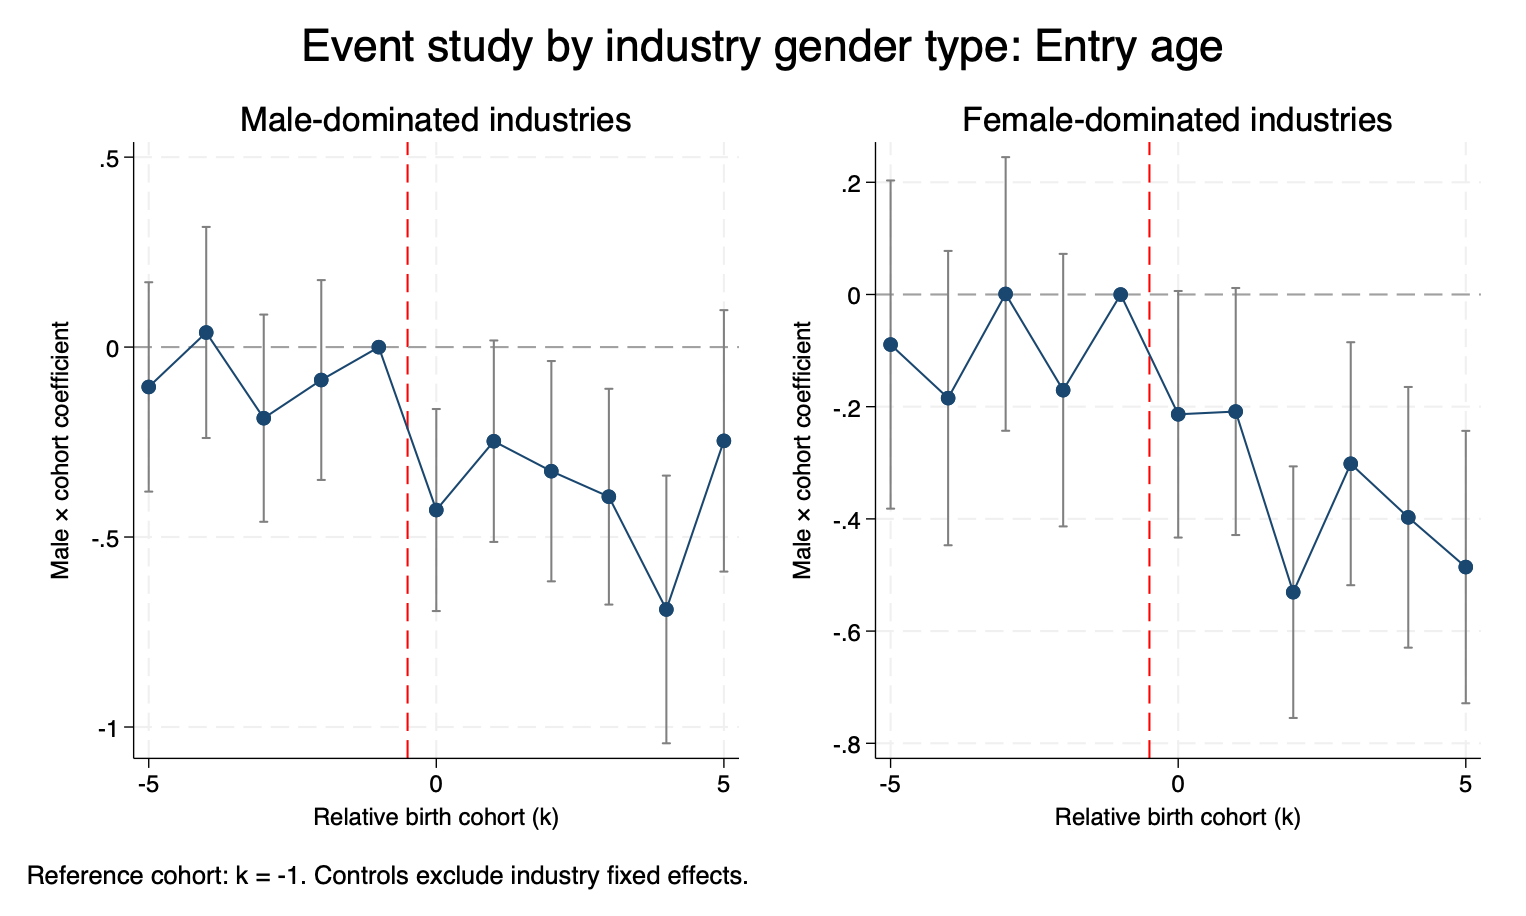
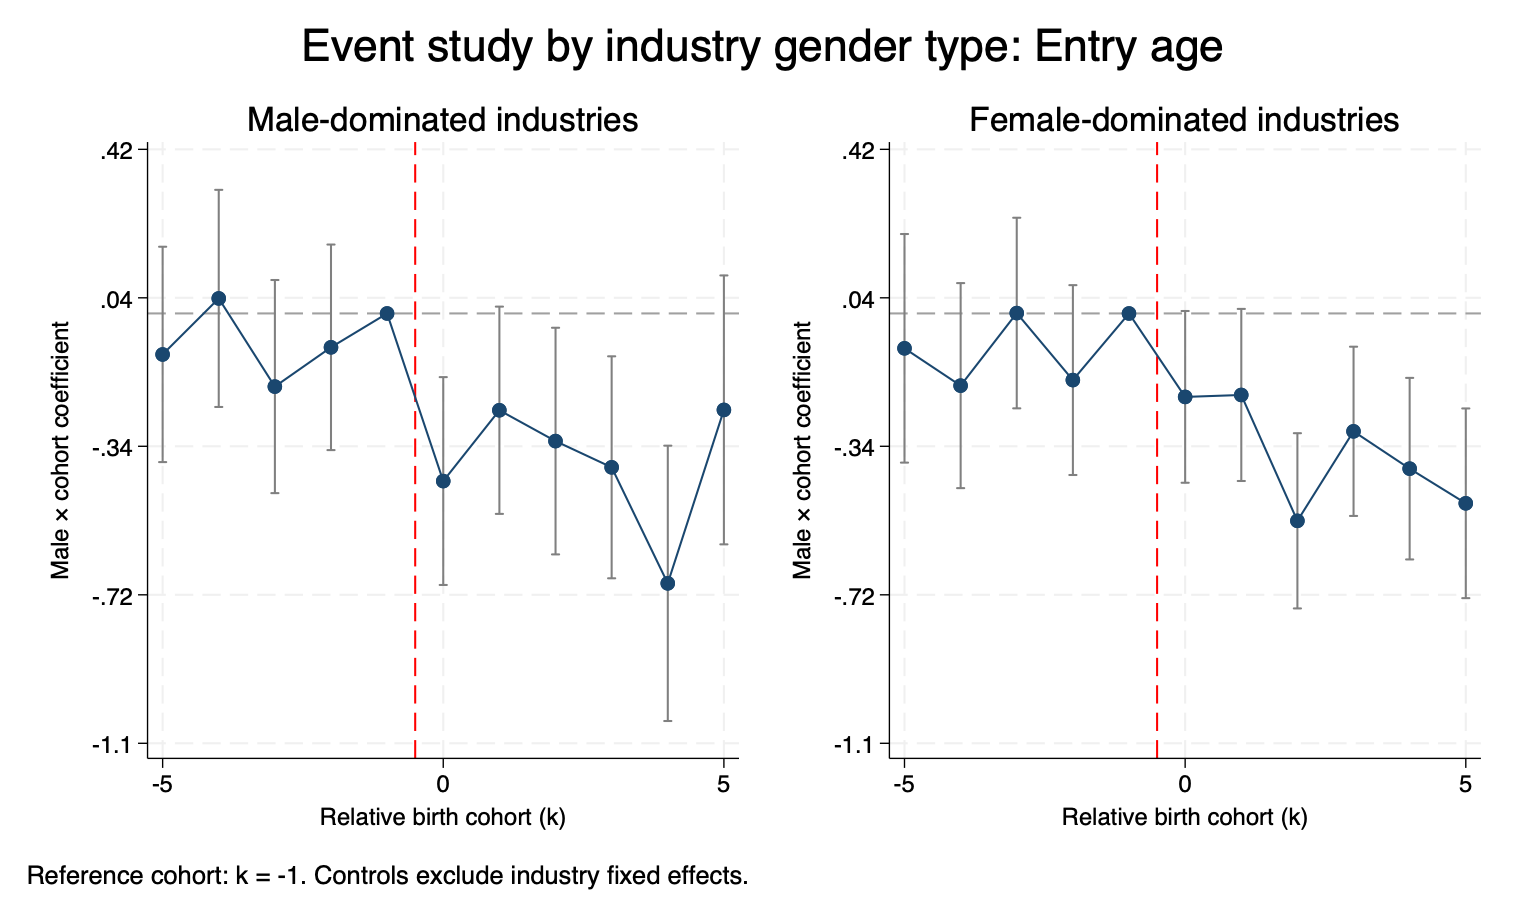
Align y-axis scales in gender-segregated event-study graphs and regenerated comparable DiD table

diff --git a/output/main_did_by_industry_gender_type.tex b/output/main_did_by_industry_gender_type.tex
@@ -1,9 +1,9 @@
             &\multicolumn{4}{c}{Entry age}                                                          &\multicolumn{4}{c}{Large firm}                                                         &\multicolumn{4}{c}{Permanent}                                                          &\multicolumn{4}{c}{Log hourly wage}                                                    &\multicolumn{4}{c}{Log monthly wage}                                                   \\
             &\multicolumn{1}{c}{Full}&\multicolumn{1}{c}{Male-dom.}&\multicolumn{1}{c}{Female-dom.}&\multicolumn{1}{c}{Mixed}&\multicolumn{1}{c}{Full}&\multicolumn{1}{c}{Male-dom.}&\multicolumn{1}{c}{Female-dom.}&\multicolumn{1}{c}{Mixed}&\multicolumn{1}{c}{Full}&\multicolumn{1}{c}{Male-dom.}&\multicolumn{1}{c}{Female-dom.}&\multicolumn{1}{c}{Mixed}&\multicolumn{1}{c}{Full}&\multicolumn{1}{c}{Male-dom.}&\multicolumn{1}{c}{Female-dom.}&\multicolumn{1}{c}{Mixed}&\multicolumn{1}{c}{Full}&\multicolumn{1}{c}{Male-dom.}&\multicolumn{1}{c}{Female-dom.}&\multicolumn{1}{c}{Mixed}\\
 \midrule
-Post-reform $\times$ Male&      -0.538\sym{***}&      -0.676\sym{***}&      -0.264\sym{*}  &      -0.523\sym{***}&     -0.0220\sym{***}&     -0.0243         &     -0.0124         &    -0.00779         &      0.0101         &     -0.0241         &      0.0621\sym{**} &     0.00426         &     -0.0388\sym{***}&     -0.0588\sym{**} &      0.0214         &     -0.0189         &   -0.000846         &     -0.0656\sym{*}  &      0.0220         &      0.0228         \\
-            &    (0.0852)         &     (0.109)         &     (0.136)         &     (0.122)         &   (0.00537)         &    (0.0212)         &    (0.0112)         &   (0.00833)         &    (0.0124)         &    (0.0186)         &    (0.0277)         &    (0.0238)         &    (0.0122)         &    (0.0244)         &    (0.0150)         &    (0.0226)         &    (0.0198)         &    (0.0323)         &    (0.0411)         &    (0.0660)         \\
+Post-reform $\times$ Male&      -0.239\sym{***}&      -0.305\sym{***}&      -0.260\sym{**} &      -0.378\sym{***}&     -0.0301\sym{***}&     -0.0308         &     -0.0202         &     -0.0131         &     -0.0152         &     -0.0175         &    -0.00382         &     -0.0239         &     -0.0311\sym{***}&     -0.0339\sym{*}  &    -0.00787         &     -0.0188         &     -0.0192         &     -0.0434\sym{*}  &     -0.0653\sym{*}  &    -0.00507         \\
+            &    (0.0467)         &    (0.0664)         &    (0.0827)         &    (0.0941)         &   (0.00660)         &    (0.0212)         &    (0.0114)         &   (0.00986)         &    (0.0126)         &    (0.0194)         &    (0.0212)         &    (0.0206)         &   (0.00807)         &    (0.0160)         &   (0.00947)         &    (0.0130)         &    (0.0175)         &    (0.0221)         &    (0.0315)         &    (0.0482)         \\
 \midrule
 Observations&      31,874         &      13,248         &      11,591         &       7,035         &      31,874         &      13,248         &      11,591         &       7,035         &      31,874         &      13,248         &      11,591         &       7,035         &      31,239         &      13,004         &      11,348         &       6,887         &      31,563         &      13,196         &      11,405         &       6,962         \\
-R-squared   &       0.185         &       0.160         &       0.171         &       0.187         &       0.005         &       0.003         &       0.004         &       0.006         &       0.044         &       0.017         &       0.074         &       0.048         &       0.021         &       0.019         &       0.017         &       0.013         &       0.068         &       0.035         &       0.061         &       0.065         \\
-Bootstrap $p$-value&       0.000         &       0.000         &       0.108         &       0.004         &       0.000         &       0.296         &       0.323         &       0.409         &       0.444         &       0.230         &       0.060         &       0.877         &       0.010         &       0.012         &       0.196         &       0.471         &       0.954         &       0.016         &       0.622         &       0.728         \\
+R-squared   &       0.571         &       0.518         &       0.587         &       0.603         &       0.088         &       0.060         &       0.108         &       0.055         &       0.292         &       0.205         &       0.320         &       0.298         &       0.491         &       0.406         &       0.500         &       0.490         &       0.454         &       0.367         &       0.460         &       0.428         \\
+Bootstrap $p$-value&       0.000         &       0.005         &       0.011         &       0.003         &       0.003         &       0.195         &       0.138         &       0.266         &       0.261         &       0.400         &       0.867         &       0.305         &       0.006         &       0.033         &       0.449         &       0.228         &       0.331         &       0.050         &       0.105         &       0.916         \\
